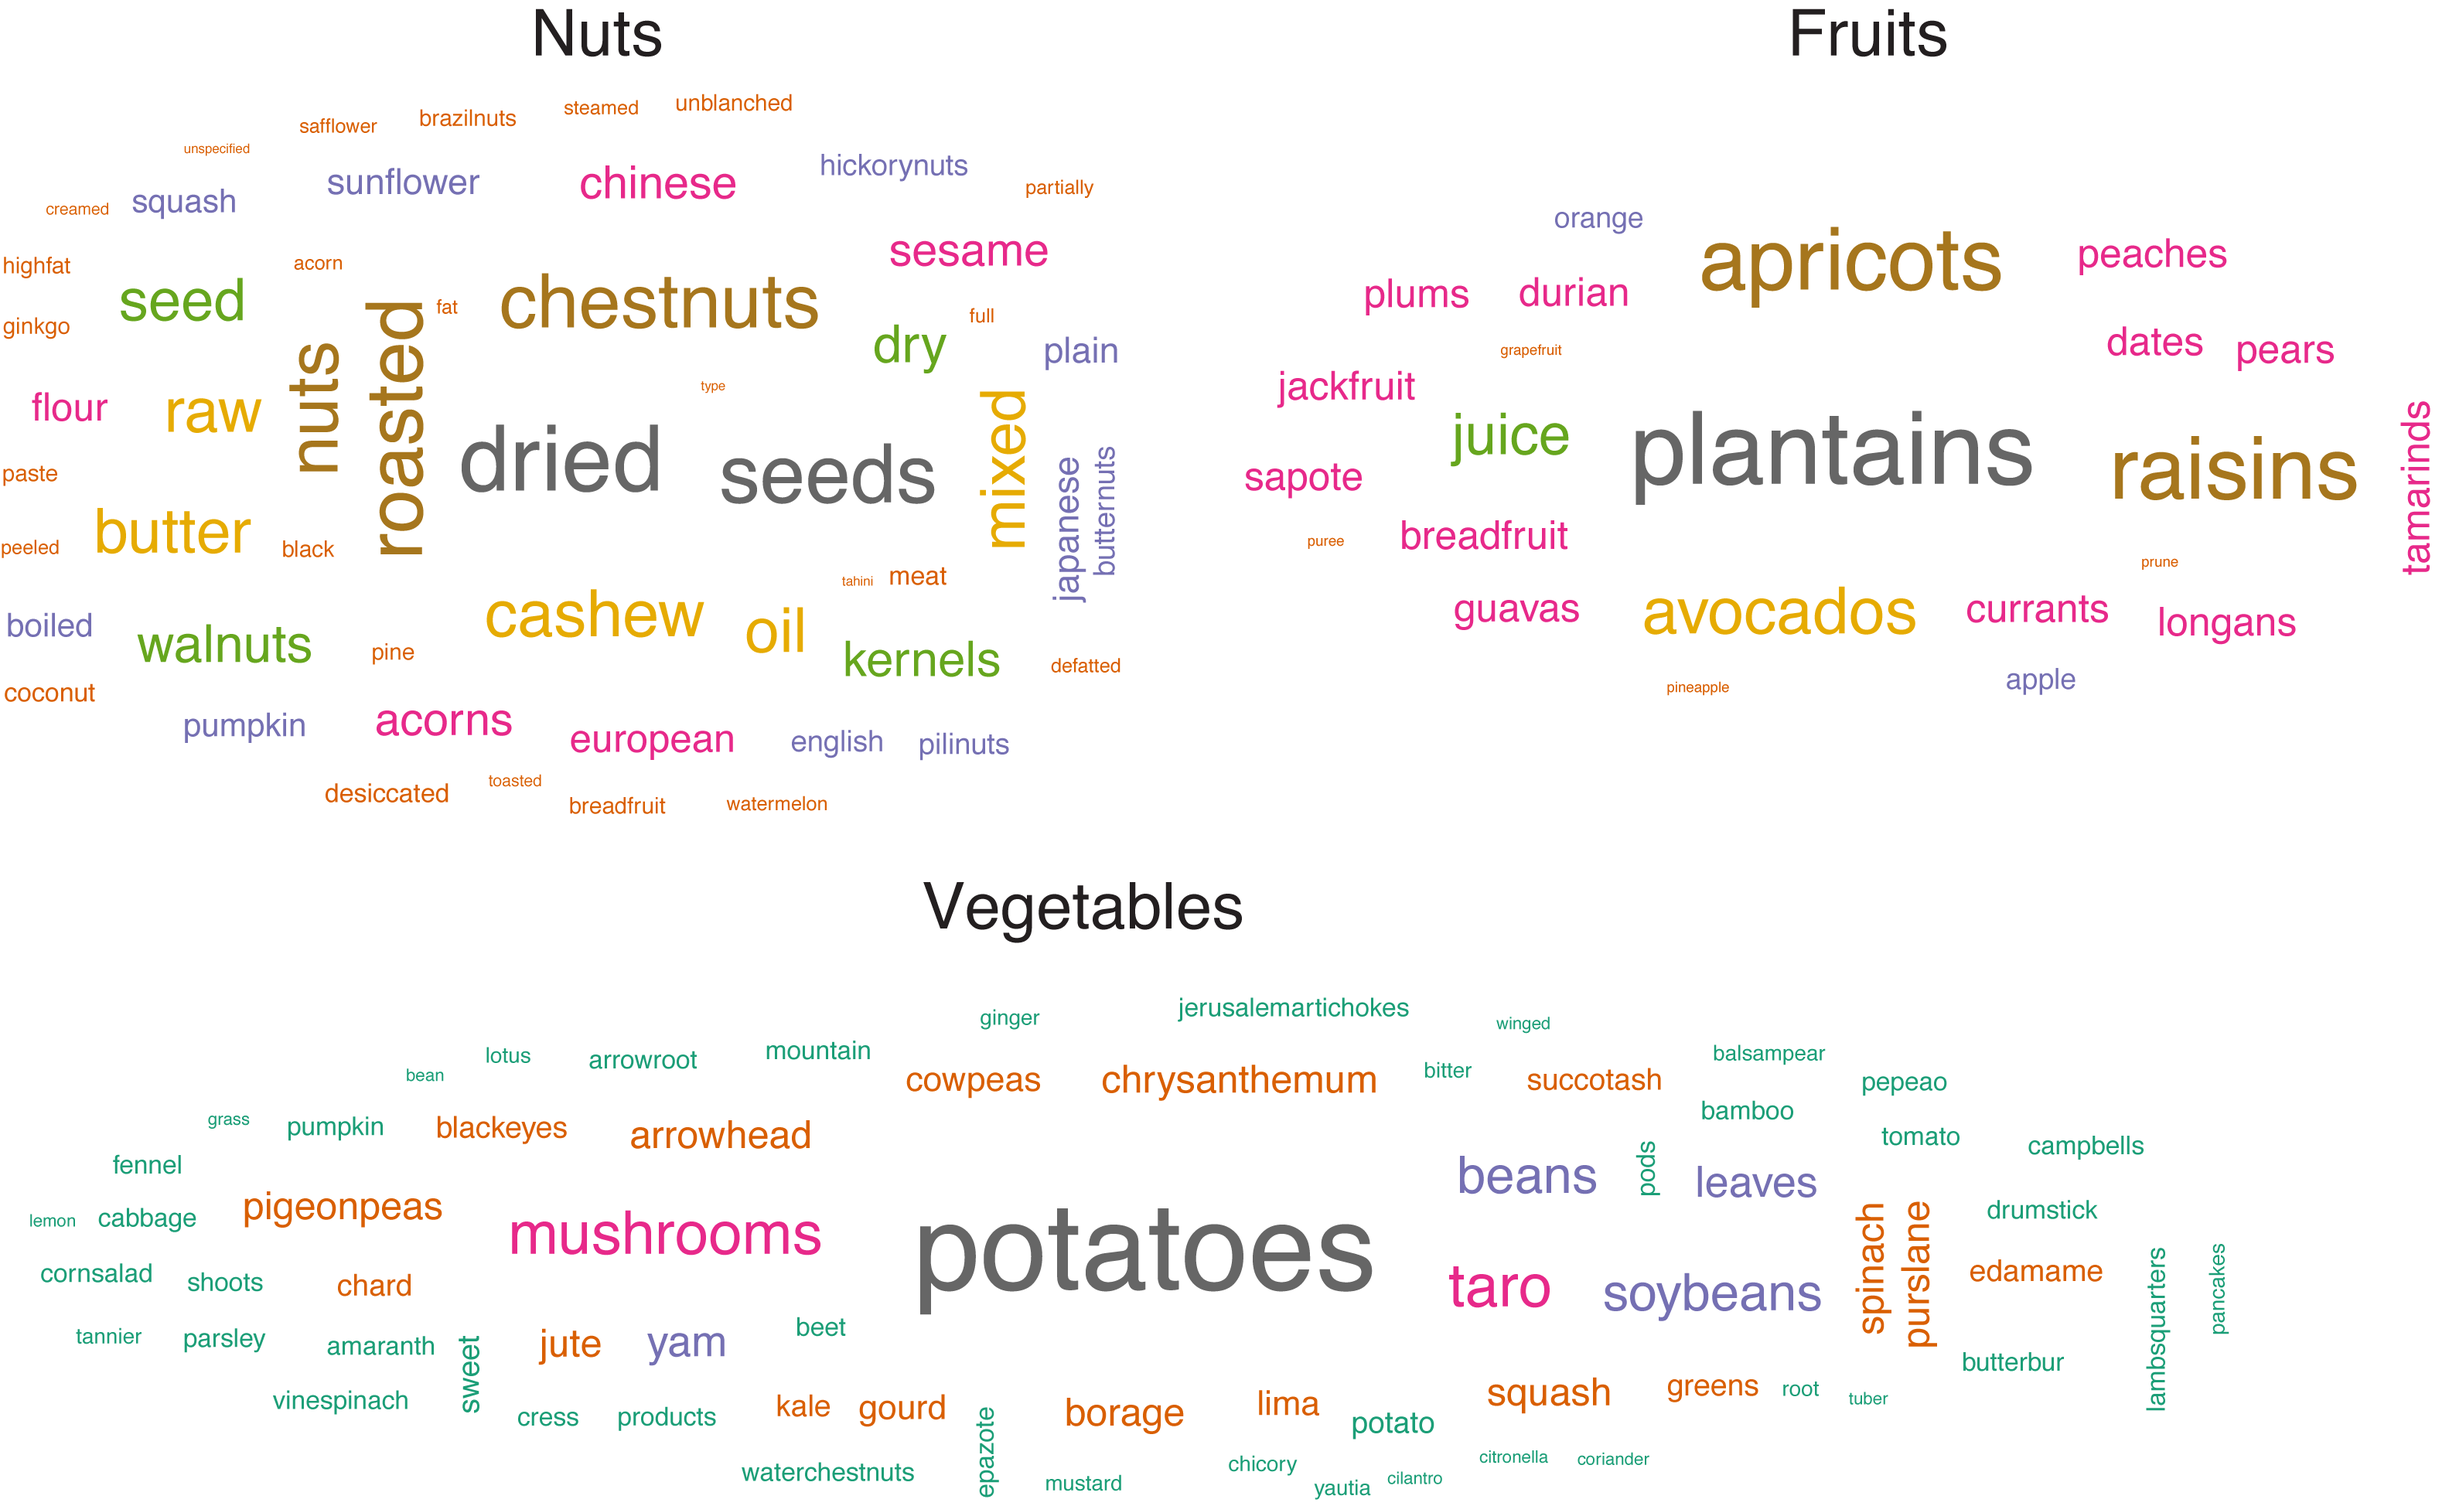
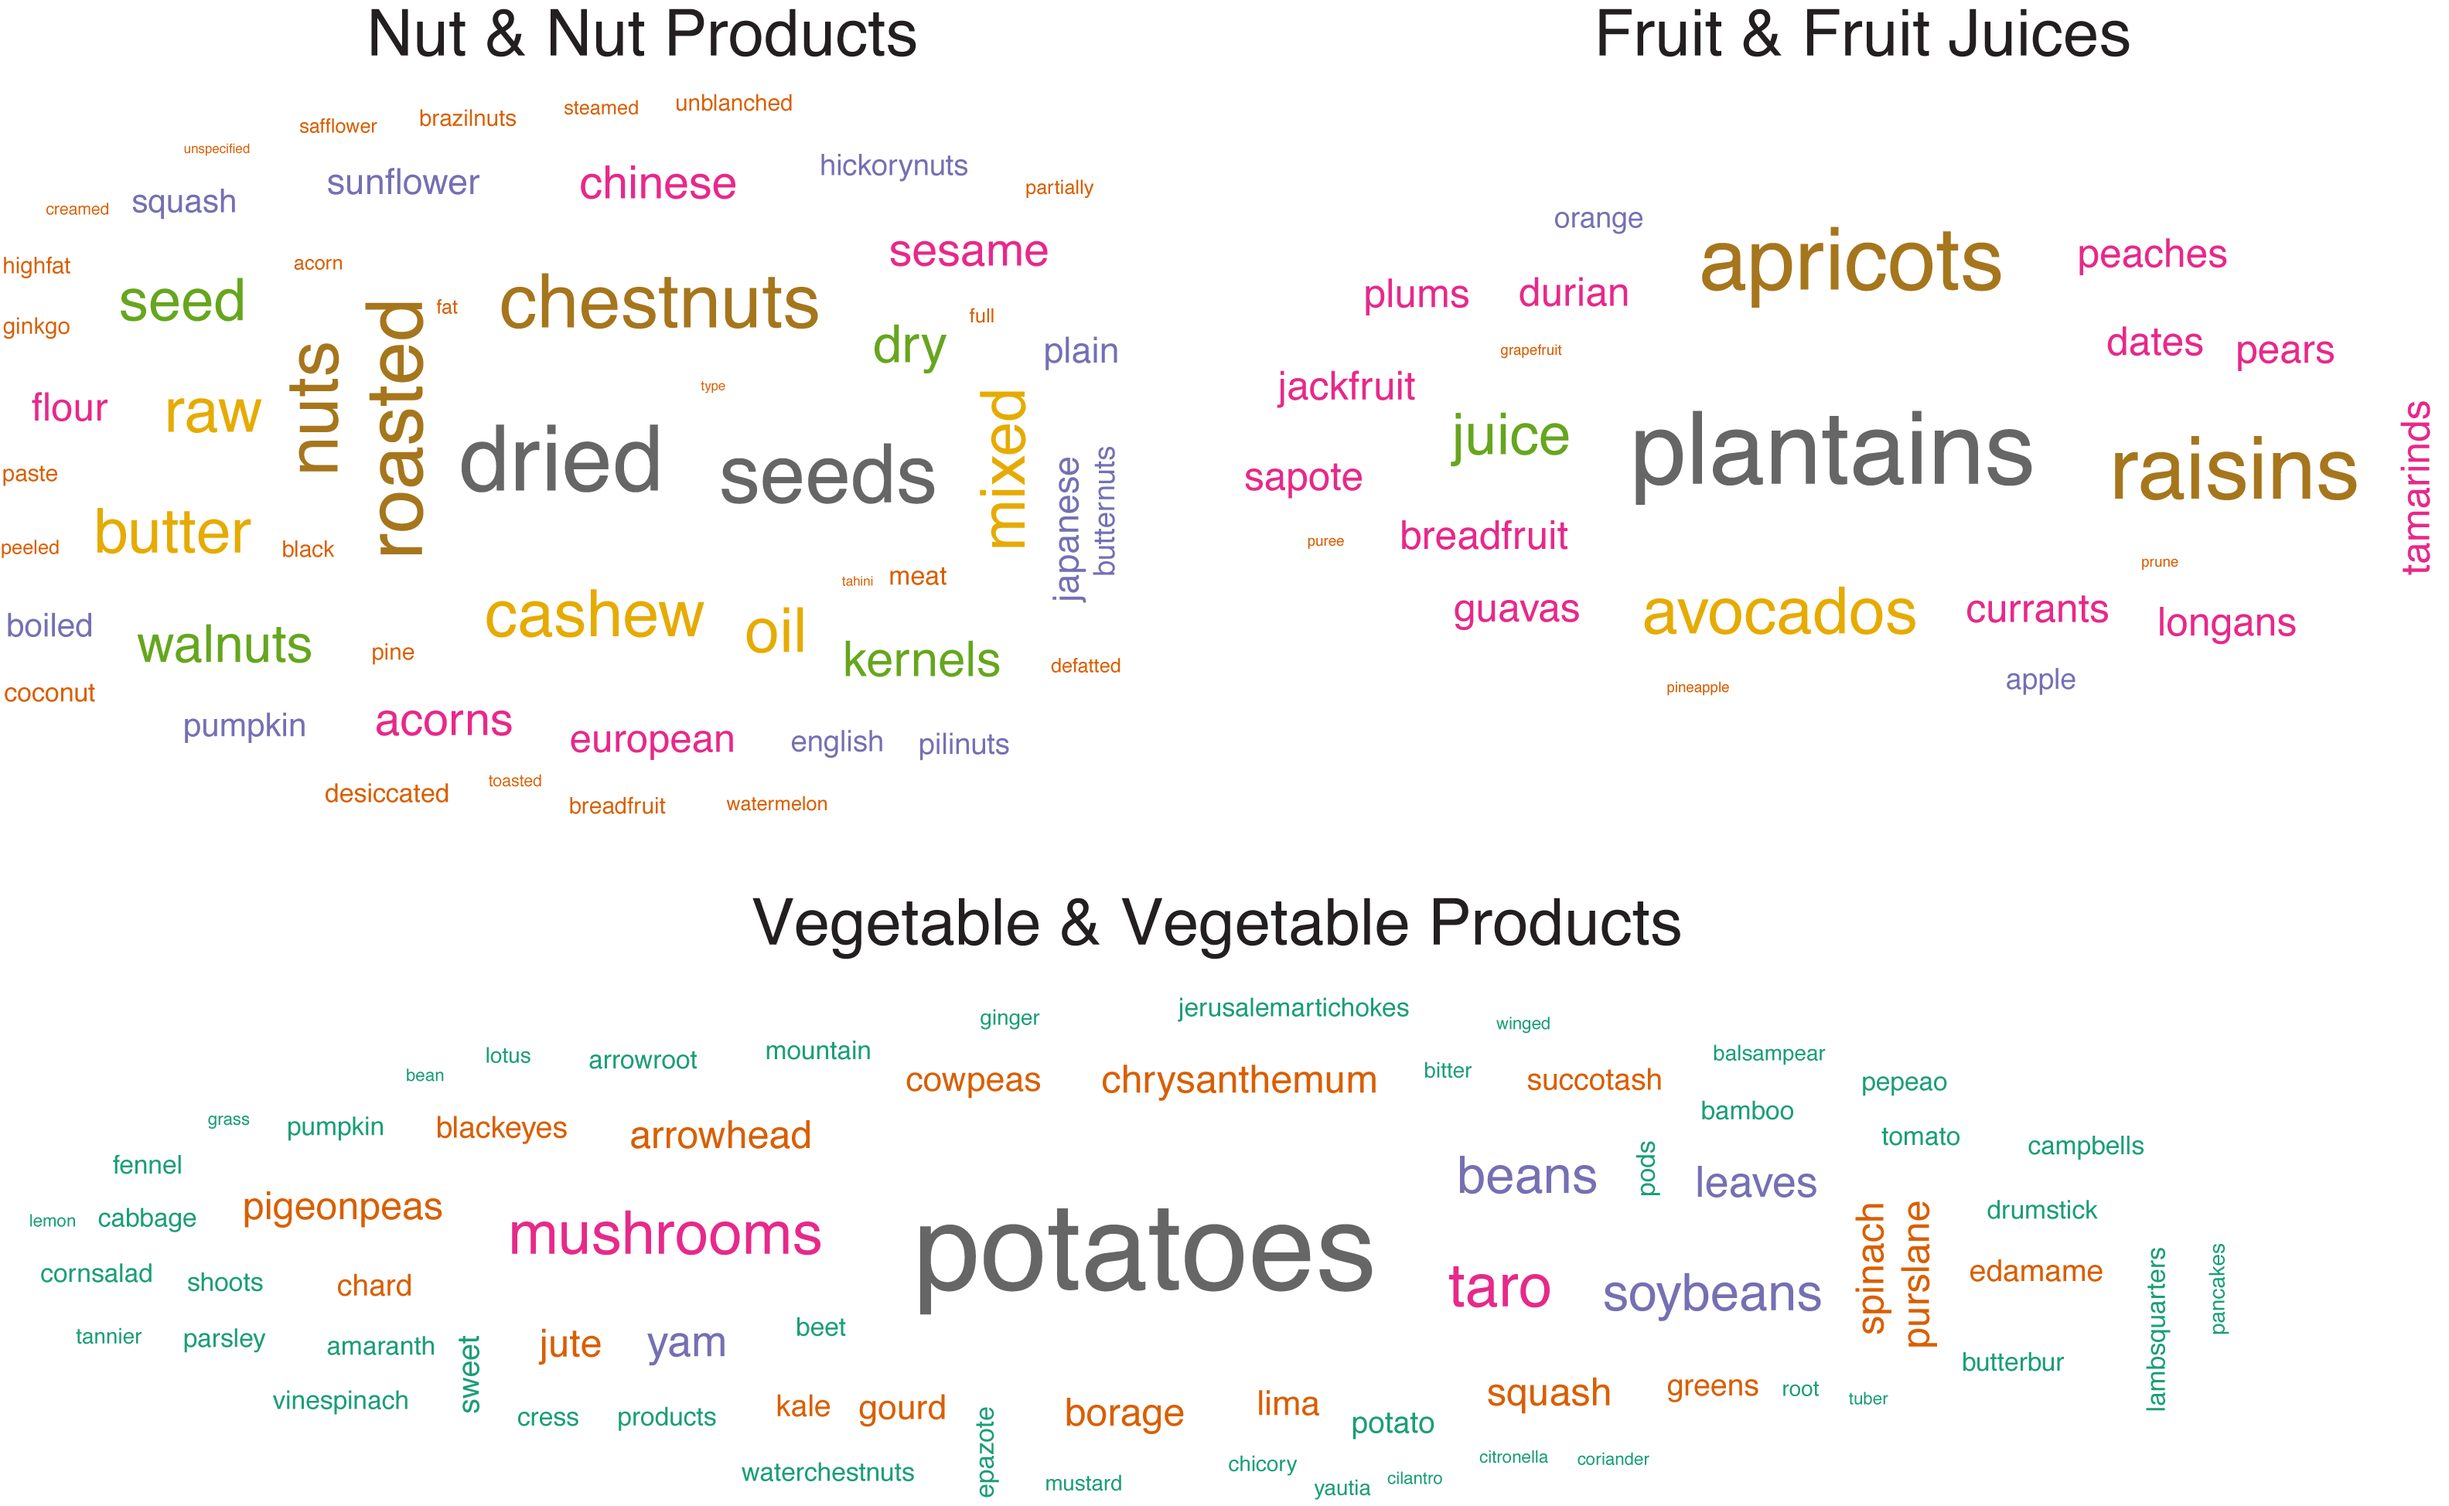
word cloud

Changed region(s): [[0.3094, 0.5852, 0.6808, 0.6468], [0.6498, 0.0, 0.8664, 0.0616], [0.1547, 0.0, 0.3713, 0.0616]]

diff --git a/_posts/2019-11-11-nutrition.md b/_posts/2019-11-11-nutrition.md
@@ -32,7 +32,7 @@ By discarding the uninteresting foods that fall outside of that range, we can ge
 
 <img src="{{ site.url }}{{site.baseurl }}/assets/images/figs/wordclouds2.png" alt="Potassium WordCloud">
 
-The word cloud on the top-left are the potassium-rich foods found in the Nuts and Nuts Products and the cloud on the top-right are the foods found in the Fruit and Fruit Juices category. The cloud on the bottom is a lot larger since most potassium-rich foods tend to be Vegetable and Vegetable products which makes sense. Although there are quite a few uninformative words in the clouds, you can nonetheless get a good idea of the foods in each category.
+The word cloud on the top-left are the potassium-rich foods found in the Nut and Nut Products and the cloud on the top-right are the foods found in the Fruit and Fruit Juices. The cloud on the bottom is a lot larger since most potassium-rich foods tend to be Vegetable and Vegetable products which makes sense. This method isn't perfect, as you can easily spot uninformative words in the clouds. But it's as they say, *data isn't a substitute for common sense*. You can nonetheless get a good idea of the foods in each category.
 
 ## Recommendations
 
